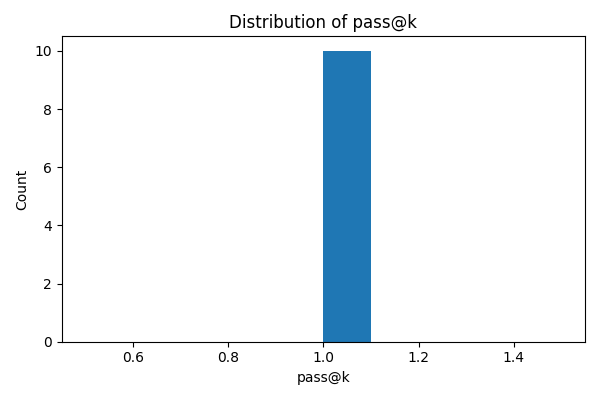
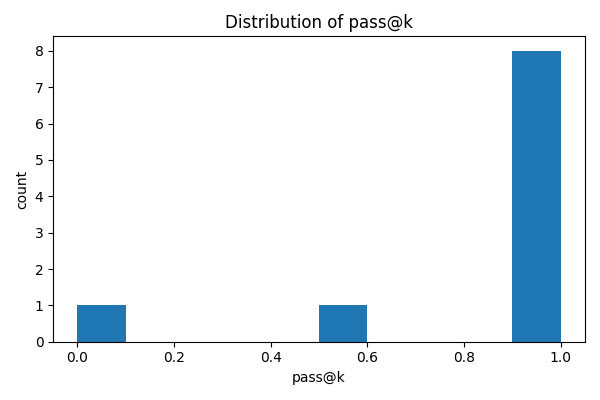
visuals rework

diff --git a/visual.py b/visual.py
@@ -5,12 +5,14 @@ import pandas as pd
 import matplotlib.pyplot as plt
 import numpy as np
 
+
 def load_metrics(path):
     records = []
     with open(path, 'r') as f:
         for line in f:
             records.append(json.loads(line))
     return pd.DataFrame(records)
+
 
 def plot_pass_at_k(df, output_dir):
     plt.figure(figsize=(10, 5))
@@ -22,6 +24,7 @@ def plot_pass_at_k(df, output_dir):
     plt.savefig(os.path.join(output_dir, 'pass_at_k_by_task.png'))
     plt.close()
 
+
 def plot_scatter(df, x_col, y_col, output_dir):
     plt.figure(figsize=(6, 6))
     plt.scatter(df[x_col], df[y_col])
@@ -32,6 +35,7 @@ def plot_scatter(df, x_col, y_col, output_dir):
     fname = f'scatter_{x_col}_vs_{y_col}.png'.replace(' ', '_').replace(':','')
     plt.savefig(os.path.join(output_dir, fname))
     plt.close()
+
 
 def plot_correlation_heatmap(df, output_dir):
     numeric = df.select_dtypes(include=[np.number])
@@ -47,6 +51,7 @@ def plot_correlation_heatmap(df, output_dir):
     plt.savefig(os.path.join(output_dir, 'correlation_matrix.png'))
     plt.close()
 
+
 def plot_histograms(df, cols, output_dir):
     for col in cols:
         if col in df.columns and pd.api.types.is_numeric_dtype(df[col]):
@@ -60,25 +65,45 @@ def plot_histograms(df, cols, output_dir):
             plt.savefig(os.path.join(output_dir, fname))
             plt.close()
 
+
 def main():
-    parser = argparse.ArgumentParser(description="Visualize HumanEval metrics from JSONL file")
-    parser.add_argument('--metrics', required=True, help='Path to metrics JSONL file')
-    parser.add_argument('--output-dir', default='visualizations', help='Directory to save output plots')
+    parser = argparse.ArgumentParser(description="Visualize HumanEval metrics from JSONL file with configurable plots")
+    parser.add_argument('--metrics',      required=True, help='Path to metrics JSONL file')
+    parser.add_argument('--output-dir',   default='visualizations', help='Directory to save output plots')
+    parser.add_argument('--no-bar',       action='store_true', help='Skip bar plot of pass@k')
+    parser.add_argument('--scatter',      nargs=2, metavar=('X_COL', 'Y_COL'), help='Plot scatter of two columns')
+    parser.add_argument('--heatmap',      action='store_true', help='Include correlation heatmap')
+    parser.add_argument('--hist',         nargs='+', metavar='COL', help='List of columns for histogram plots')
     args = parser.parse_args()
 
     os.makedirs(args.output_dir, exist_ok=True)
     df = load_metrics(args.metrics)
 
-    # plots
-    plot_pass_at_k(df, args.output_dir)
-    # prompt length vs pass@k (example for scatter plot)
-    if 'TasM: Total text length' in df.columns:
-        plot_scatter(df, 'TasM: Total text length', 'pass@k', args.output_dir)
-    # correlation heatmap
-    plot_correlation_heatmap(df, args.output_dir)
-    # histograms for key numeric columns
-    hist_cols = ['pass@k', 'TasM: Total text length', 'Mean SolM: Total text length']
-    plot_histograms(df, hist_cols, args.output_dir)
+    # bar chart
+    if not args.no_bar:
+        if 'pass@k' in df.columns:
+            plot_pass_at_k(df, args.output_dir)
+        else:
+            print("Warning: 'pass@k' column not found, skipping bar plot.")
+
+    # scatter plot
+    if args.scatter:
+        x_col, y_col = args.scatter
+        if x_col in df.columns and y_col in df.columns:
+            plot_scatter(df, x_col, y_col, args.output_dir)
+        else:
+            print(f"Warning: columns {x_col}, {y_col} not both present; skipping scatter.")
+
+    # heatmap
+    if args.heatmap:
+        plot_correlation_heatmap(df, args.output_dir)
+
+    # histograms
+    if args.hist:
+        plot_histograms(df, args.hist, args.output_dir)
+    else:
+        default_hist = ['pass@k', 'TasM: Total text length', 'Mean SolM: Total text length']
+        plot_histograms(df, default_hist, args.output_dir)
 
     print(f"Visualizations saved to {args.output_dir}")
 

diff --git a/compared_visual.py b/compared_visual.py
@@ -1,0 +1,102 @@
+import json
+import argparse
+import os
+import pandas as pd
+import matplotlib.pyplot as plt
+import numpy as np
+
+
+def load_metrics(path):
+    records = []
+    with open(path, 'r') as f:
+        for line in f:
+            records.append(json.loads(line))
+    return pd.DataFrame(records)
+
+
+def plot_grouped_bar(merged, label1, label2, field, output_dir):
+    tasks = merged['task_id']
+    x = np.arange(len(tasks))
+    width = 0.35
+
+    fig, ax = plt.subplots(figsize=(max(8, len(tasks)*0.3), 5))
+    ax.bar(x - width/2, merged[f'{field}_{label1}'], width, label=label1)
+    ax.bar(x + width/2, merged[f'{field}_{label2}'], width, label=label2)
+    ax.set_xticks(x)
+    ax.set_xticklabels(tasks, rotation=45, ha='right')
+    ax.set_ylabel(field)
+    ax.set_title(f'Comparative {field} by Task')
+    ax.legend()
+    plt.tight_layout()
+    fname = f'comparative_{field}.png'
+    plt.savefig(os.path.join(output_dir, fname))
+    plt.close()
+
+
+def plot_scatter(merged, label1, label2, field, output_dir):
+    x = merged[f'{field}_{label1}']
+    y = merged[f'{field}_{label2}']
+
+    plt.figure(figsize=(6, 6))
+    plt.scatter(x, y)
+    plt.xlabel(f'{field}_{label1}')
+    plt.ylabel(f'{field}_{label2}')
+    plt.title(f'{field}: {label1} vs {label2}')
+    plt.tight_layout()
+    fname = f'scatter_{field}_{label1}_vs_{label2}.png'
+    plt.savefig(os.path.join(output_dir, fname))
+    plt.close()
+
+
+def plot_diff_histogram(merged, label1, label2, field, output_dir):
+    diff = merged[f'{field}_{label1}'] - merged[f'{field}_{label2}']
+    plt.figure(figsize=(6, 4))
+    plt.hist(diff.dropna(), bins=10)
+    plt.title(f'Difference in {field} ({label1} - {label2})')
+    plt.xlabel(f'{field} difference')
+    plt.ylabel('Count')
+    plt.tight_layout()
+    fname = f'hist_diff_{field}_{label1}_minus_{label2}.png'
+    plt.savefig(os.path.join(output_dir, fname))
+    plt.close()
+
+
+def main():
+    parser = argparse.ArgumentParser(
+        description="Compare two HumanEval metrics files and visualize specified metrics"
+    )
+    parser.add_argument('--metrics1', required=True, help='First metrics JSONL file')
+    parser.add_argument('--metrics2', required=True, help='Second metrics JSONL file')
+    parser.add_argument('--label1',   required=True, help='Label for first run (used in legends)')
+    parser.add_argument('--label2',   required=True, help='Label for second run')
+    parser.add_argument('--fields',   required=True, nargs='+',
+                        help='List of metric fields (exact column names) to compare')
+    parser.add_argument('--output-dir', default='compared_visuals', help='Directory to save plots')
+
+    args = parser.parse_args()
+    os.makedirs(args.output_dir, exist_ok=True)
+
+    df1 = load_metrics(args.metrics1)
+    df2 = load_metrics(args.metrics2)
+
+    for field in args.fields:
+        if field not in df1.columns or field not in df2.columns:
+            print(f"Warning: Field '{field}' not found in both metrics files, skipping.")
+            continue
+
+        m1 = df1[['task_id', field]].copy()
+        m1.rename(columns={field: f'{field}_{args.label1}'}, inplace=True)
+        m2 = df2[['task_id', field]].copy()
+        m2.rename(columns={field: f'{field}_{args.label2}'}, inplace=True)
+
+        merged = pd.merge(m1, m2, on='task_id', how='inner')
+
+        plot_grouped_bar(merged, args.label1, args.label2, field, args.output_dir)
+        plot_scatter(merged, args.label1, args.label2, field, args.output_dir)
+        plot_diff_histogram(merged, args.label1, args.label2, field, args.output_dir)
+        print(f"Generated visuals for field '{field}'")
+
+    print(f"Comparative visualizations saved to {args.output_dir}")
+
+if __name__ == "__main__":
+    main()

diff --git a/main.py b/main.py
@@ -15,34 +15,48 @@ SYSTEM_PROMPT = """
 """
 
 
-def name_from_config(llm_name, tasks, k):
-    return f"{llm_name}-{tasks}-{k}"
+def name_from_config(llm_name, tasks, candidates, k):
+    return f"{llm_name}-{tasks}-{candidates}-{k}"
 
 
 LLM_USED = {"claude-3.7": Profile.ANTHROPIC_CLAUDE_37_SONNET,
-            "gpt-4": Profile.OPENAI_GPT_4}
+            "gpt-4": Profile.OPENAI_GPT_4,
+            "claude-3h": Profile.ANTHROPIC_CLAUDE_3_HAIKU,
+            "gpt-4o-mini": Profile.OPENAI_GPT_4_O_MINI}
 
 if __name__ == "__main__":
     parser = argparse.ArgumentParser(
         prog="HEval Performance Correlations Runner",
         description="Runs HumanEval on specified model and measures some metrics on solutions, tasks text and canonical solutions.",
     )
-    parser.add_argument("--llm", default="claude-3.7")
-    parser.add_argument("--max_tasks", default=10, type=int)
-    parser.add_argument("--k", default=5, type=int)
+    parser.add_argument("--llm",               default="claude-3.7")
+    parser.add_argument("--max_tasks",         default=10, type=int)
+    parser.add_argument("--k",                 default=3,  type=int)
+    parser.add_argument("--num_candidates",    default=5,  type=int)
 
     parsed = parser.parse_args()
-    llm, max_tasks, k = parsed.llm, parsed.max_tasks, parsed.k
+    llm, max_tasks, k, num_candidates = (
+        parsed.llm,
+        parsed.max_tasks,
+        parsed.k,
+        parsed.num_candidates,
+    )
 
     provider = LLMProvider(url, token, LLM_USED[llm], SYSTEM_PROMPT)
 
-    file_prefix = name_from_config(llm, max_tasks, k)
+    file_prefix = name_from_config(llm, max_tasks, num_candidates, k)
 
     solutions_filename = f"{file_prefix}-generated_solutions.jsonl"
     eval_results_filename = f"{file_prefix}-evaluation_results.jsonl"
     metrics_run_filename = f"{file_prefix}-with-metrics.jsonl"
     if not Path(solutions_filename).exists():
-        run_all_tasks("HumanEval.jsonl", provider=provider, output_path=solutions_filename, max_index=max_tasks)
+        run_all_tasks(
+            "HumanEval.jsonl",
+            provider=provider,
+            output_path=solutions_filename,
+            max_index=max_tasks,
+            num_candidates=num_candidates,
+        )
 
     evaluate_all("HumanEval.jsonl", solutions_filename, output_path=eval_results_filename, max_tasks=max_tasks, k=k)
     perform_metrics("HumanEval.jsonl", solutions_filename, evaluated_path=eval_results_filename,
